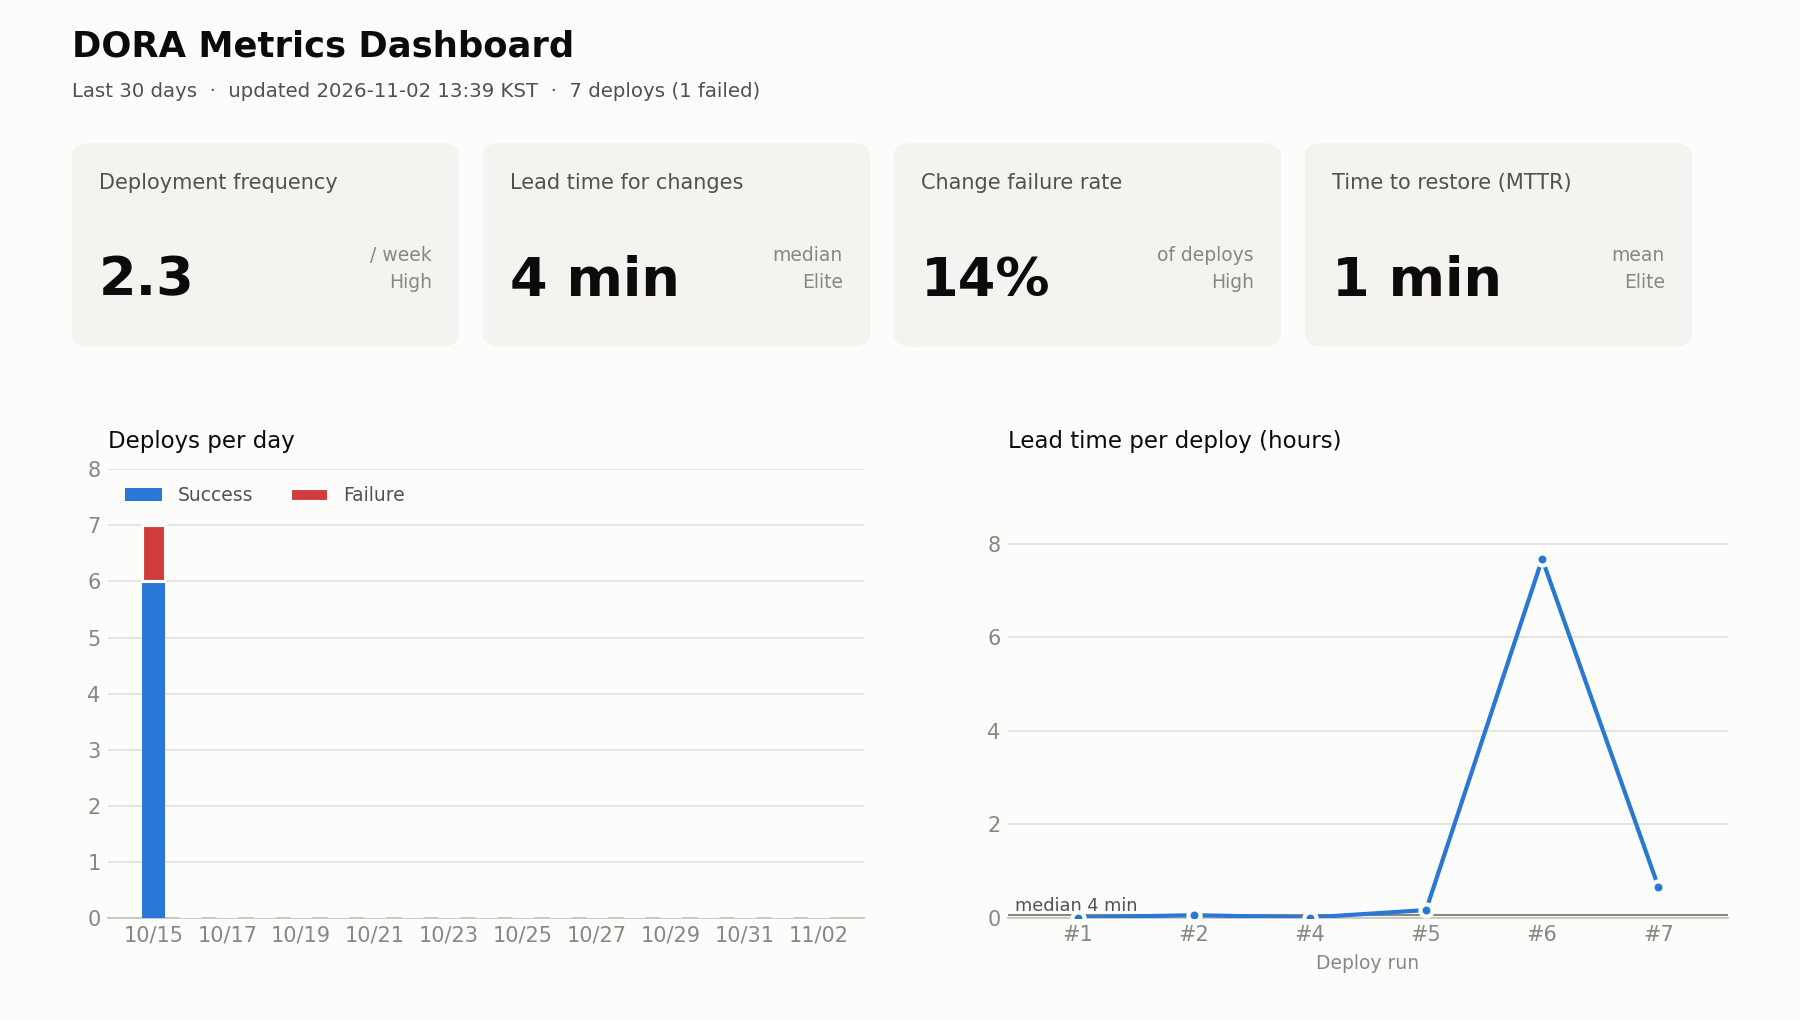
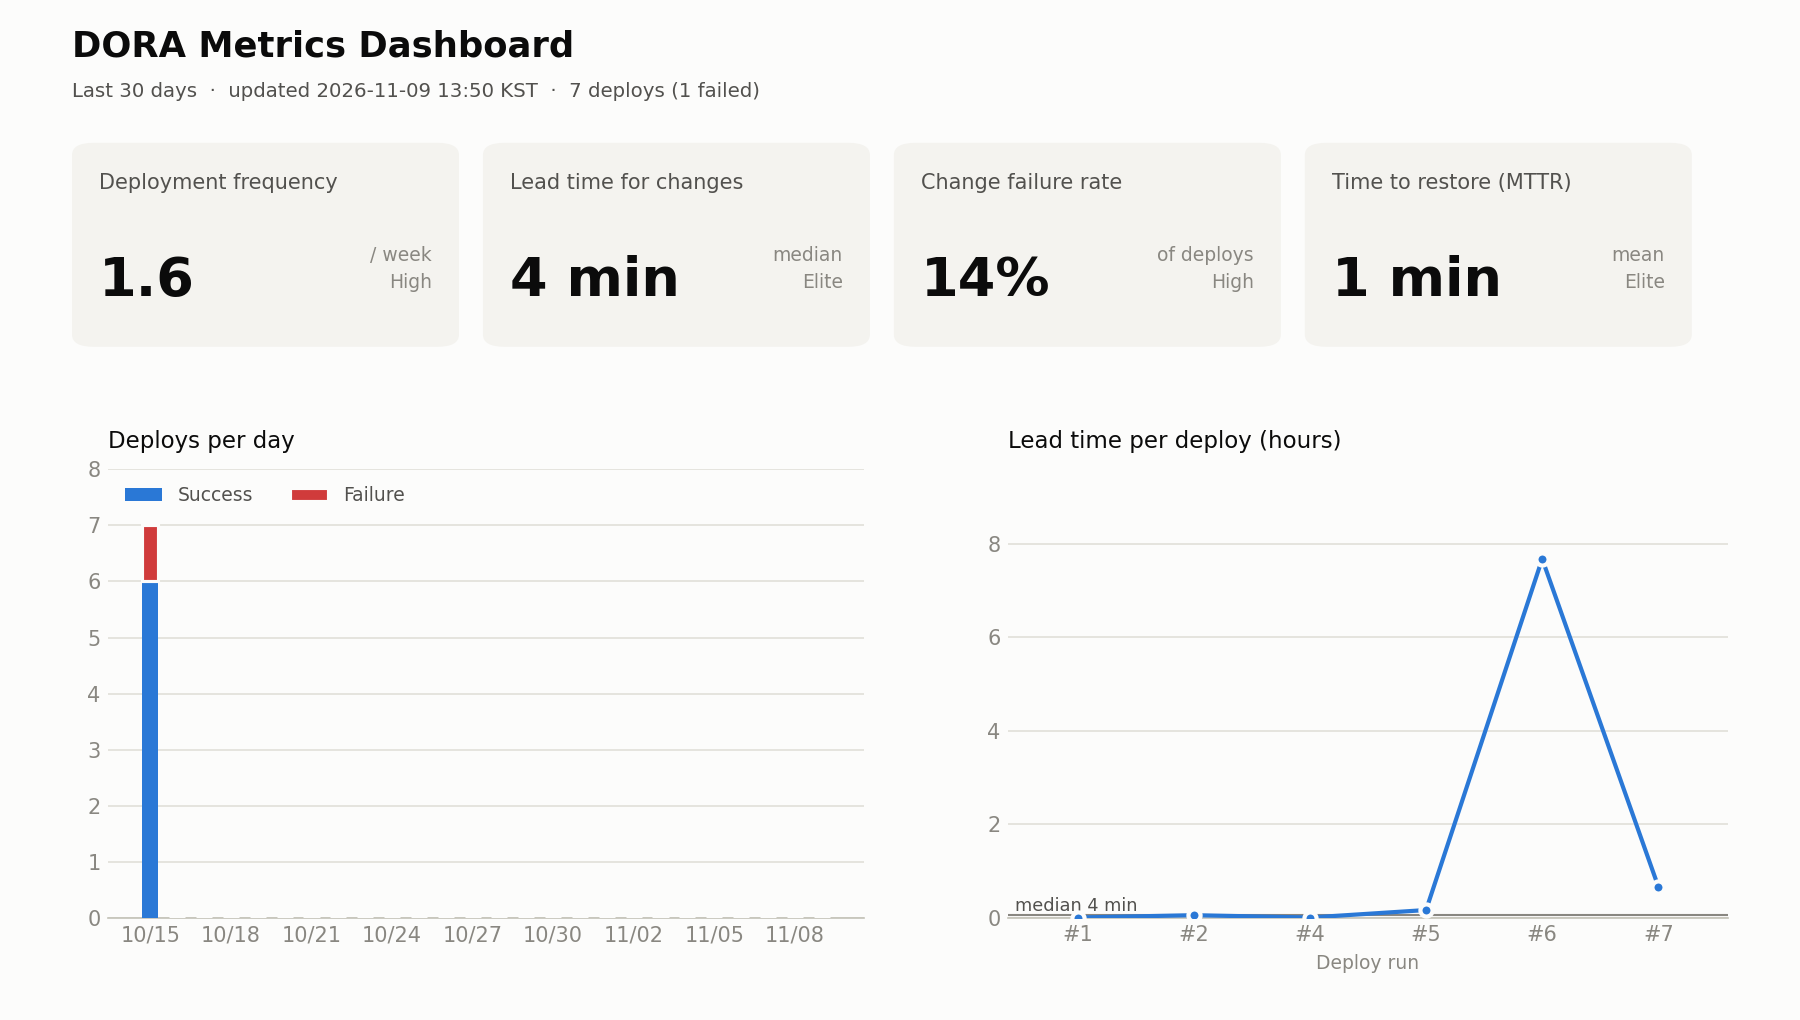
chore(dora): update metrics [skip ci]

Changed region(s): [[0.0622, 0.5167, 0.4667, 0.9422], [0.0622, 0.2431, 0.1244, 0.3039]]

diff --git a/reports/weekly-2026-W46.md b/reports/weekly-2026-W46.md
@@ -1,0 +1,27 @@
+# 📊 DORA 주간 보고서 — 2026년 46주차
+
+> 기간: 2026-11-09 ~ 2026-11-15 · 생성: 2026-11-09 13:50 KST · 계산 범위: 최근 30일 · 자동 생성 (GitHub Actions)
+
+![DORA dashboard](../metrics/dora-dashboard.png)
+
+## 1. 핵심 지표
+
+| 지표 | 값 | 성과 등급 | 지난 측정 대비 |
+|---|---|---|---|
+| 🚀 배포 빈도 (Deployment Frequency) | **1.6회 / 주** | 🔵 High | ▼ 0.6회 (악화) |
+| ⏱ 변경 리드타임 (Lead Time for Changes) | **4 min** (중앙값) | 🟢 Elite | 변화 없음 |
+| 💥 변경 실패율 (Change Failure Rate) | **14.3%** | 🔵 High | 변화 없음 |
+| 🛠 평균 복구 시간 (MTTR) | **1 min** | 🟢 Elite | 변화 없음 |
+
+- 전체 배포 **7회** (성공 6 · 실패 1), 복구 1회
+
+## 2. 이번 주 배포 기록
+
+이번 주에는 배포가 없었습니다.
+
+## 3. 해석 및 다음 주 액션
+
+- 모든 지표가 양호합니다 → 현재 흐름을 유지하며 기능 개발 속도를 높이기
+
+---
+<sub>이 보고서는 `scripts/dora_metrics.py`가 Deploy 워크플로우 기록을 분석해 자동으로 생성했습니다.</sub>

diff --git a/README.md b/README.md
@@ -3,13 +3,13 @@
 <!-- DORA:START -->
 ## 📊 DORA 지표 (자동 갱신)
 
-> 최근 갱신: 2026-11-02 13:39 KST · [최신 주간 보고서](reports/weekly-2026-W45.md) · [원본 JSON](metrics/dora-latest.json)
+> 최근 갱신: 2026-11-09 13:50 KST · [최신 주간 보고서](reports/weekly-2026-W46.md) · [원본 JSON](metrics/dora-latest.json)
 
 ![DORA dashboard](metrics/dora-dashboard.png)
 
 | 지표 | 값 | 성과 등급 | 지난 측정 대비 |
 |---|---|---|---|
-| 🚀 배포 빈도 (Deployment Frequency) | **2.3회 / 주** | 🔵 High | ▼ 1.4회 (악화) |
+| 🚀 배포 빈도 (Deployment Frequency) | **1.6회 / 주** | 🔵 High | ▼ 0.6회 (악화) |
 | ⏱ 변경 리드타임 (Lead Time for Changes) | **4 min** (중앙값) | 🟢 Elite | 변화 없음 |
 | 💥 변경 실패율 (Change Failure Rate) | **14.3%** | 🔵 High | 변화 없음 |
 | 🛠 평균 복구 시간 (MTTR) | **1 min** | 🟢 Elite | 변화 없음 |
